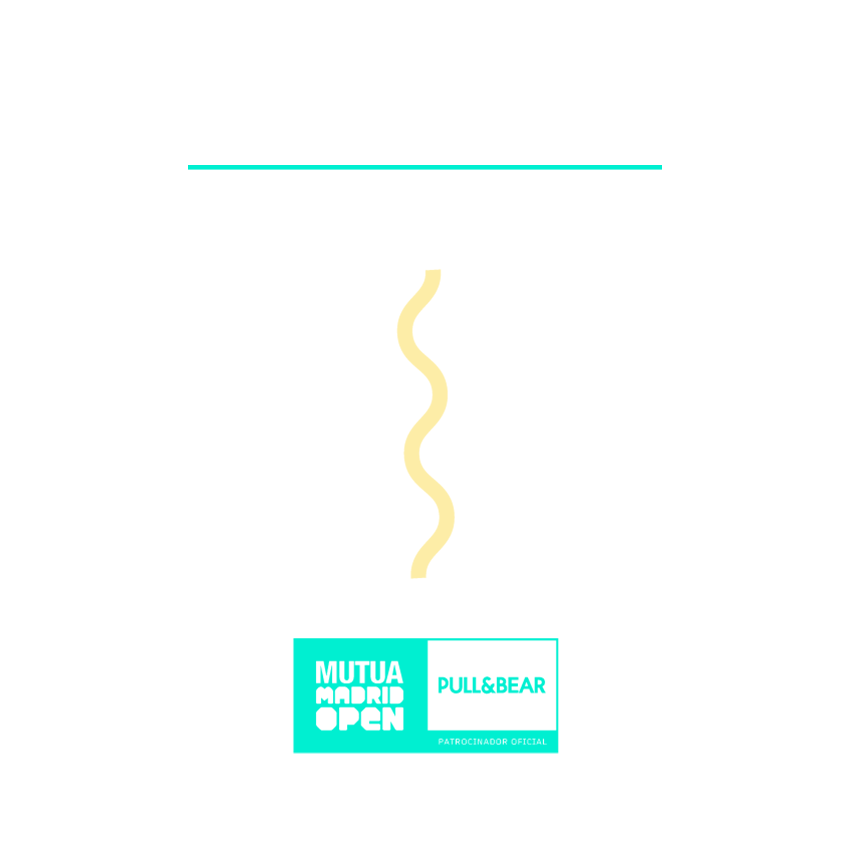
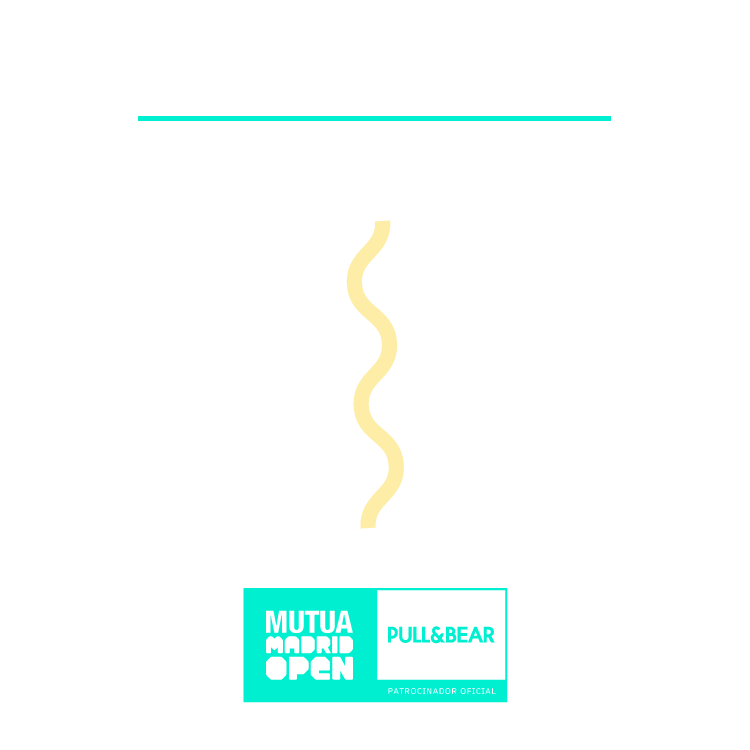
Modified background.png

diff --git a/index.html b/index.html
@@ -111,9 +111,9 @@
       $("#background").width(windowW - 200);
       $("#background").height(windowW - 200);
       $("#background").css("margin-top", (windowH - windowW)/2);
-      $("#title").css("margin-top", (windowW - 200) * 0.09 + (windowH - windowW)/2);
+      $("#title").css("margin-top", (windowW - 200) * 0.05 + (windowH - windowW)/2);
       $("#title").css("font-size", (windowW - 200)/14);
-      $("#hash").css("margin-top", (windowW - 200) * 0.22 + (windowH - windowW)/2);
+      $("#hash").css("margin-top", (windowW - 200) * 0.18 + (windowH - windowW)/2);
       $("#hash").css("font-size", (windowW - 200)/40);
       $("#score").css("margin-top", (windowW - 200)* 0.35 + (windowH - windowW)/2);
       $("#score").css("font-size", (windowW - 200)/4);
@@ -137,9 +137,9 @@
       $("#background").width(windowH - 200);
       $("#background").height(windowH - 200);
       $("#background").css("margin-left", (windowW - windowH)/2);
-      $("#title").css("margin-top", (windowH - 200) * 0.09);
+      $("#title").css("margin-top", (windowH - 200) * 0.05);
       $("#title").css("font-size", (windowH - 200)/14);
-      $("#hash").css("margin-top", (windowH - 200) * 0.22);
+      $("#hash").css("margin-top", (windowH - 200) * 0.18);
       $("#hash").css("font-size", (windowH - 200)/40);
       $("#score").css("margin-top", (windowH - 200)* 0.35);
       $("#score").css("font-size", (windowH - 200)/4);
